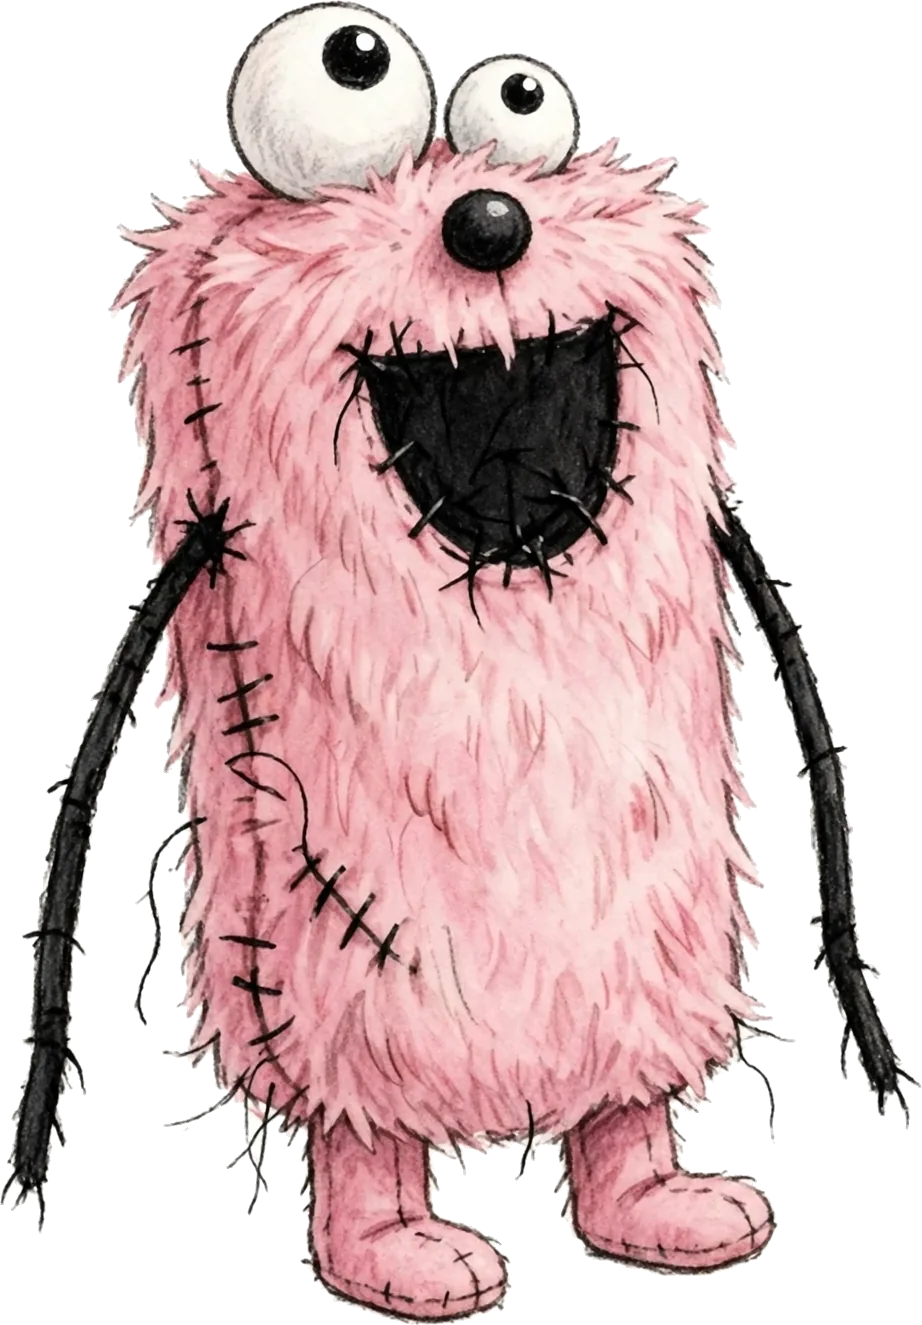
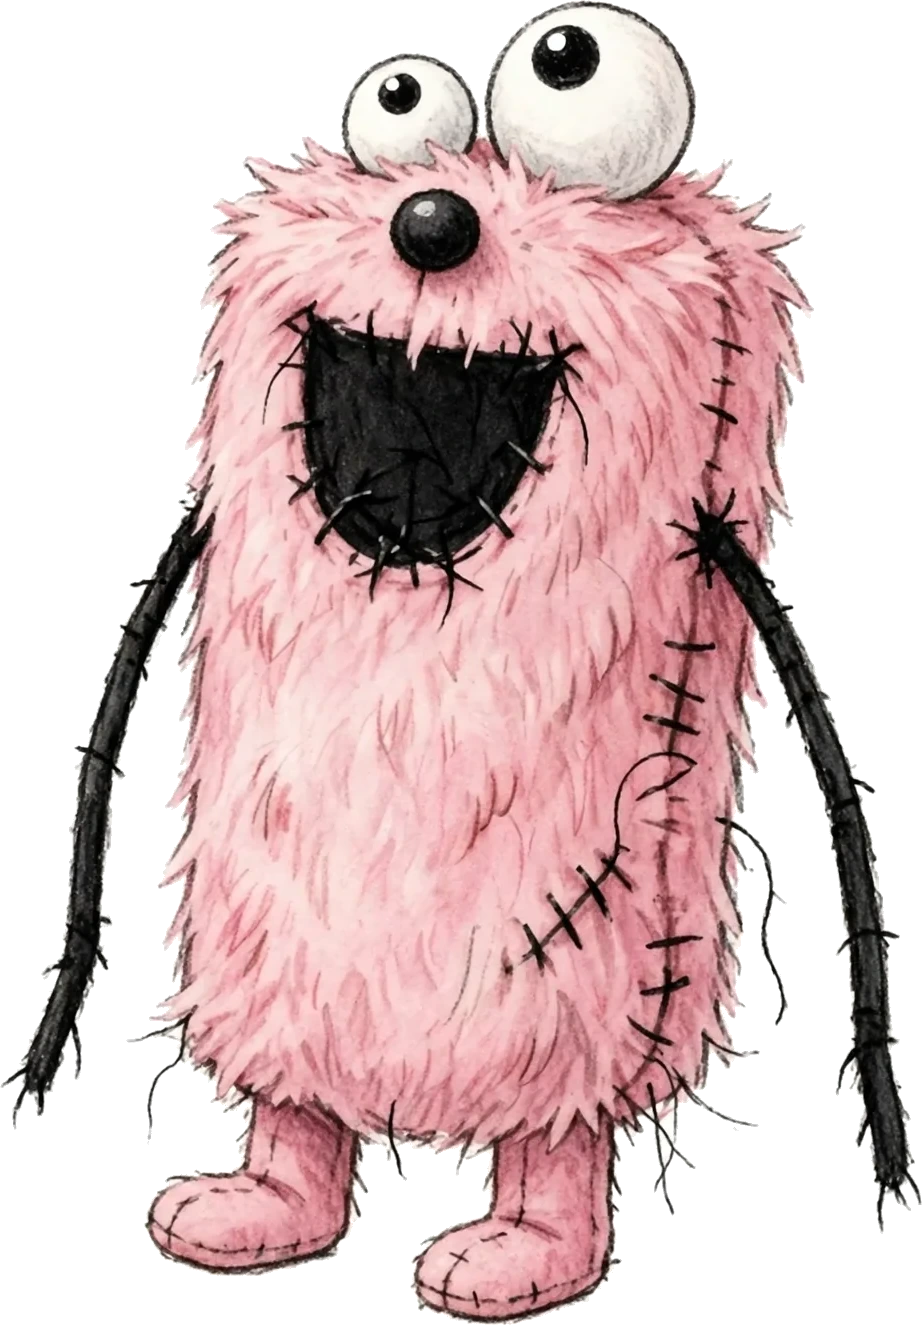
実画面検証の修正3点：スンスン反転を画像自体に焼き込み（CSS scaleXは実画面で効かず二重反転防止に除去）／カニ飛ばしサムネイルを実物スクショ（赤いカニ）に差し替え／湯かげんサムネイルを4:3専用画像にしてタイトル全幅表示

diff --git a/index.html b/index.html
@@ -176,7 +176,7 @@ position:absolute;left:75.5%;bottom:2.5%;
 width:11%;padding:0;border-radius:20px;z-index:3;
 }
 #sunsun:active{transform:scale(.93)}
-#sunsun img{width:100%;display:block;pointer-events:none;transform:scaleX(-1)}
+#sunsun img{width:100%;display:block;pointer-events:none}
 #sunsun.talking.rare{animation:squishBig .45s ease-in-out infinite}
 @keyframes squishBig{0%,100%{transform:scale(1,1)}30%{transform:scale(1.17,.8)}60%{transform:scale(.9,1.13)}}
 
@@ -1092,8 +1092,8 @@ var storageView = document.getElementById('storageView');
 var storageOpen = false, pushedStorage = false;
 /* 作品リスト：ここに1件足すと棚に増える */
 var WORKS = [
-{title:'ちょうどいい湯かげん', kind:'ゲーム', tag:'', href:'https://sakiyayoi.github.io/chodoii-yukagen/', img:'assets/parts/hero-yukagen-real.webp'},
-{title:'カニ飛ばし', kind:'ゲーム', tag:'', href:'https://sakiyayoi.github.io/sakiya-crab-flight-play/', face:'kani'},
+{title:'ちょうどいい湯かげん', kind:'ゲーム', tag:'', href:'https://sakiyayoi.github.io/chodoii-yukagen/', img:'assets/parts/work-yukagen.webp'},
+{title:'カニ飛ばし', kind:'ゲーム', tag:'', href:'https://sakiyayoi.github.io/sakiya-crab-flight-play/', img:'assets/parts/work-kani.webp'},
 {title:'EBI KANI?', kind:'ゲーム', tag:'', href:'https://sakiyayoi.github.io/ebi-kani/', img:'assets/parts/work-ebi.webp'},
 {title:'そばにいて', kind:'曲・MV', tag:'pink', href:'https://youtube.com/watch?v=i6zgNb9RhZI', img:'assets/parts/hero-song-real.webp'},
 {title:'空っぽの愛', kind:'曲', tag:'pink', href:'https://youtube.com/watch?v=ABf9efnTBhI', img:'assets/parts/work-ai.webp'},
